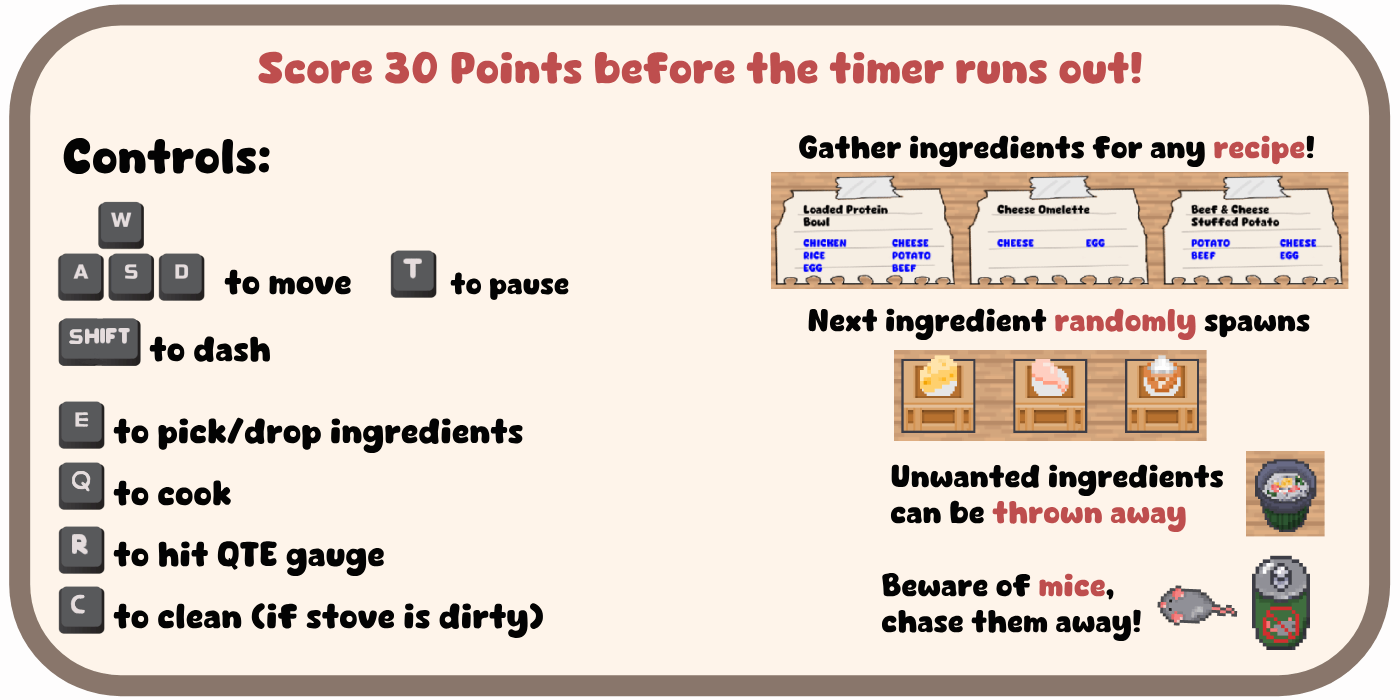
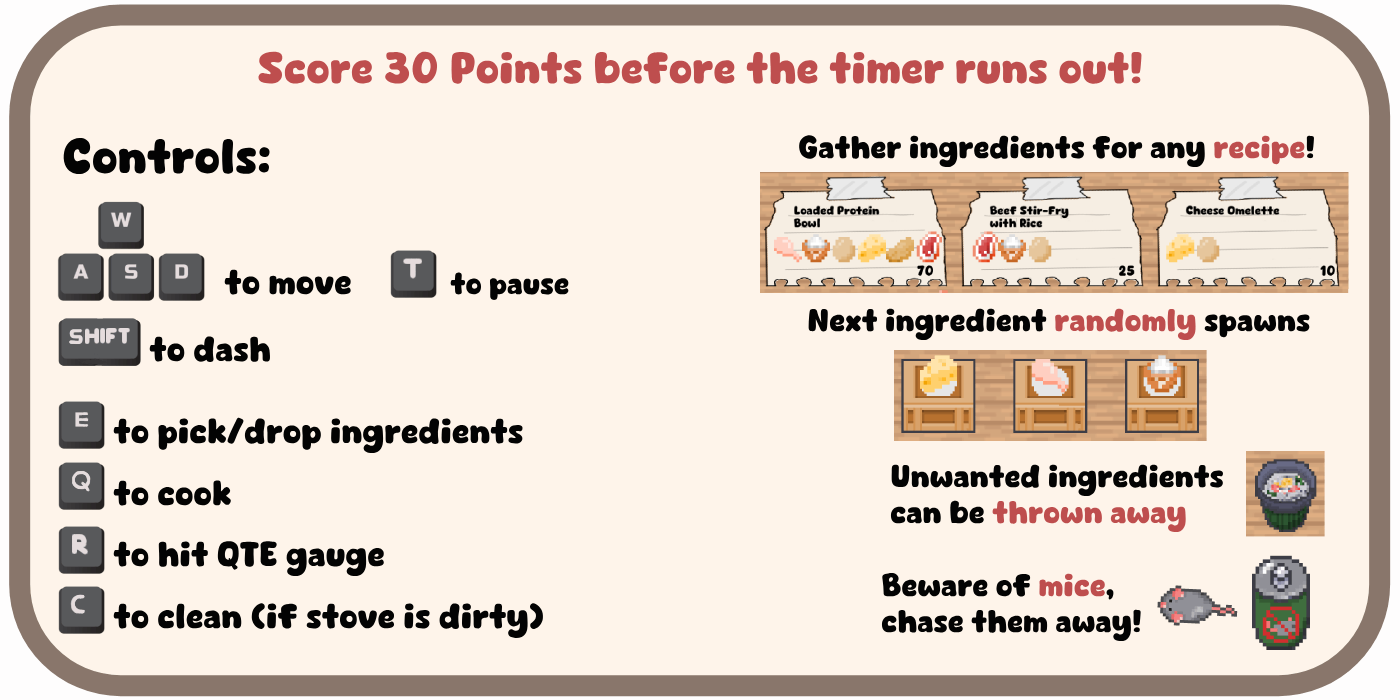
asset and changes

Changed region(s): [[0.5221, 0.24, 0.9829, 0.42]]

diff --git a/Cooked/Source/render.cpp b/Cooked/Source/render.cpp
@@ -109,11 +109,11 @@ std::vector<Rect> collisionBoxes = {
     {110.0f, 110.0f, -200.0f, 175.0f},
     {110.0f,110.0f, -49.0f, 175.0f},
     { 110.0f, 110.0f, 102.0f, 175.0f },
-    { 100.0f, 140.0f, 200.0f, -365.0f }
+    { 60.0f, 100.0f, 200.0f, -360.0f }
    
 };
 std::vector<Rect> objectcollision = {
-    { 100.0f, 100.0f,-720.0f , -300.0f }, //Dustbin
+    { 50.0f, 40.0f, -720.0f , -270.0f }, //Dustbin
     { 200.0f, 100.0f,-50.0f, -200.0f }, // stove
     { 100.0f, 100.0f,-200.0f ,175.0f }, //Ing Box 1
     { 100.0f, 100.0f,-49.0f ,175.0f }, //Ing Box 2
@@ -121,7 +121,7 @@ std::vector<Rect> objectcollision = {
     { 330.0f, 200.0f, -350.0f, 340.0f },  // Recipe 1 Collision
     { 330.0f, 200.0f, -0.0f, 340.0f },  // Recipe 2 Collision
     { 330.0f, 200.0f, 350.0f, 340.0f },  // Recipe 3 Collision
-    { 90.0f, 110.0f, 200.0f, -350.0f } //mouse device
+    { 20.0f, 70.0f, 200.0f, -350.0f } //mouse device
 };
 
 std::vector<Rect> recipeBoxes = {
@@ -136,7 +136,7 @@ Rect dustbinRect{ 100.0f, 100.0f,-720.0f , -300.0f };
 Rect ingredientBoxRect{ 100.0f, 100.0f,-200.0f ,175.0f };
 Rect backgroundMain_menu{ 1600.0f,900.0f,0.0f,0.0f };
 Rect digipen_logo{ 1000, 455 * 1000 / 1525,0.0f,0.0f };
-Rect mouseDevice{ 170.0f, 170.0f,200.0f, -350.0f };
+Rect mouseDevice{ 120.0f, 120.0f,200.0f, -350.0f };
 
 void Renderbackground(AEGfxVertexList* mesh, AEGfxTexture* tex) {
     AEGfxSetRenderMode(AE_GFX_RM_TEXTURE);
@@ -275,7 +275,6 @@ void RenderIngredientsOnBoxes(
             break;
         case POTATO:
             AEGfxTextureSet(potatoTex, 0, 0);
-            //AEGfxSetColorToMultiply(0.6f, 0.4f, 0.2f, 1.0f);
             
             break;
         default:
@@ -339,10 +338,10 @@ void RenderStove(AEGfxVertexList* mesh, Stove& stove, player& Player, const  QTE
         AEGfxPrint(FontID, timerText.c_str(), -0.4f, -0.1f, 1.2f, 0.0f, 0.0f, 0.0f, 1.0f);        
     }
     if (stove.isDirty && !stove.isCleaning) {
-        AEGfxPrint(FontID, "Stove is dirty! Press C to clean", -0.6f, -0.1f, 0.8f, 0.0f, 0.0f, 0.0f, 1.0f);
+        AEGfxPrint(FontID, "Stove is dirty! Press C to clean", -0.6f, -0.1f, 1.2f, 0.0f, 0.0f, 0.0f, 1.0f);
     }
     if (stove.isDirty && stove.isCleaning) {
-        AEGfxPrint(FontID, "Cleaning Stove!", -0.6f, -0.1f, 0.8f, 0.0f, 0.0f, 0.0f, 1.0f);
+        AEGfxPrint(FontID, "Cleaning Stove!", -0.6f, -0.1f, 1.2f, 0.0f, 0.0f, 0.0f, 1.0f);
     }
 
 

diff --git a/Cooked/Source/main.cpp b/Cooked/Source/main.cpp
@@ -358,10 +358,8 @@ void CoreEngine::Update()
         {
 
             creditMenu.Update();
-            if (AEInputCheckTriggered(AEVK_Q)|| creditMenu.shouldExitToMain())  // Use Q or X to exit credits
+            if (creditMenu.shouldExitToMain())  // Use Q or X to exit credits
             {
-                
-                
                 creditMenu.ResetExitFlag();
                 currentState = GameState::MAIN_MENU;
             }

diff --git a/Cooked/Source/main_menu.cpp b/Cooked/Source/main_menu.cpp
@@ -429,9 +429,6 @@ void Credits::Init() {
     lines.push_back({ "SOROOR", 1.2f, 30.0f });
     lines.push_back({ "GERALD WONG", 1.2f, 60.0f });
     lines.push_back({ "All Content Copyright 2025 DigiPen Institute of Technology Singapore. All Rights Reserved", 0.8f, 80.0f });
-
-    lines.push_back({ "PRESS Q TO GO BACK MAIN MENU", 1.5f, 80.0f });
-
 }
 
 void Credits::Update() {

diff --git a/Cooked/Game_Project/utils.cpp b/Cooked/Game_Project/utils.cpp
@@ -128,7 +128,7 @@ void Stove::update(RecipeSystem& recipeSystem) {
 		}
 	}
 }
-// Getter Functions -> actually i can just put everything public .. no client gonna have access to my source code... im dumb
+// Getter Functions 
 
 std::string Stove::getCookingRecipeName() const {
 	return cookingRecipeName;
